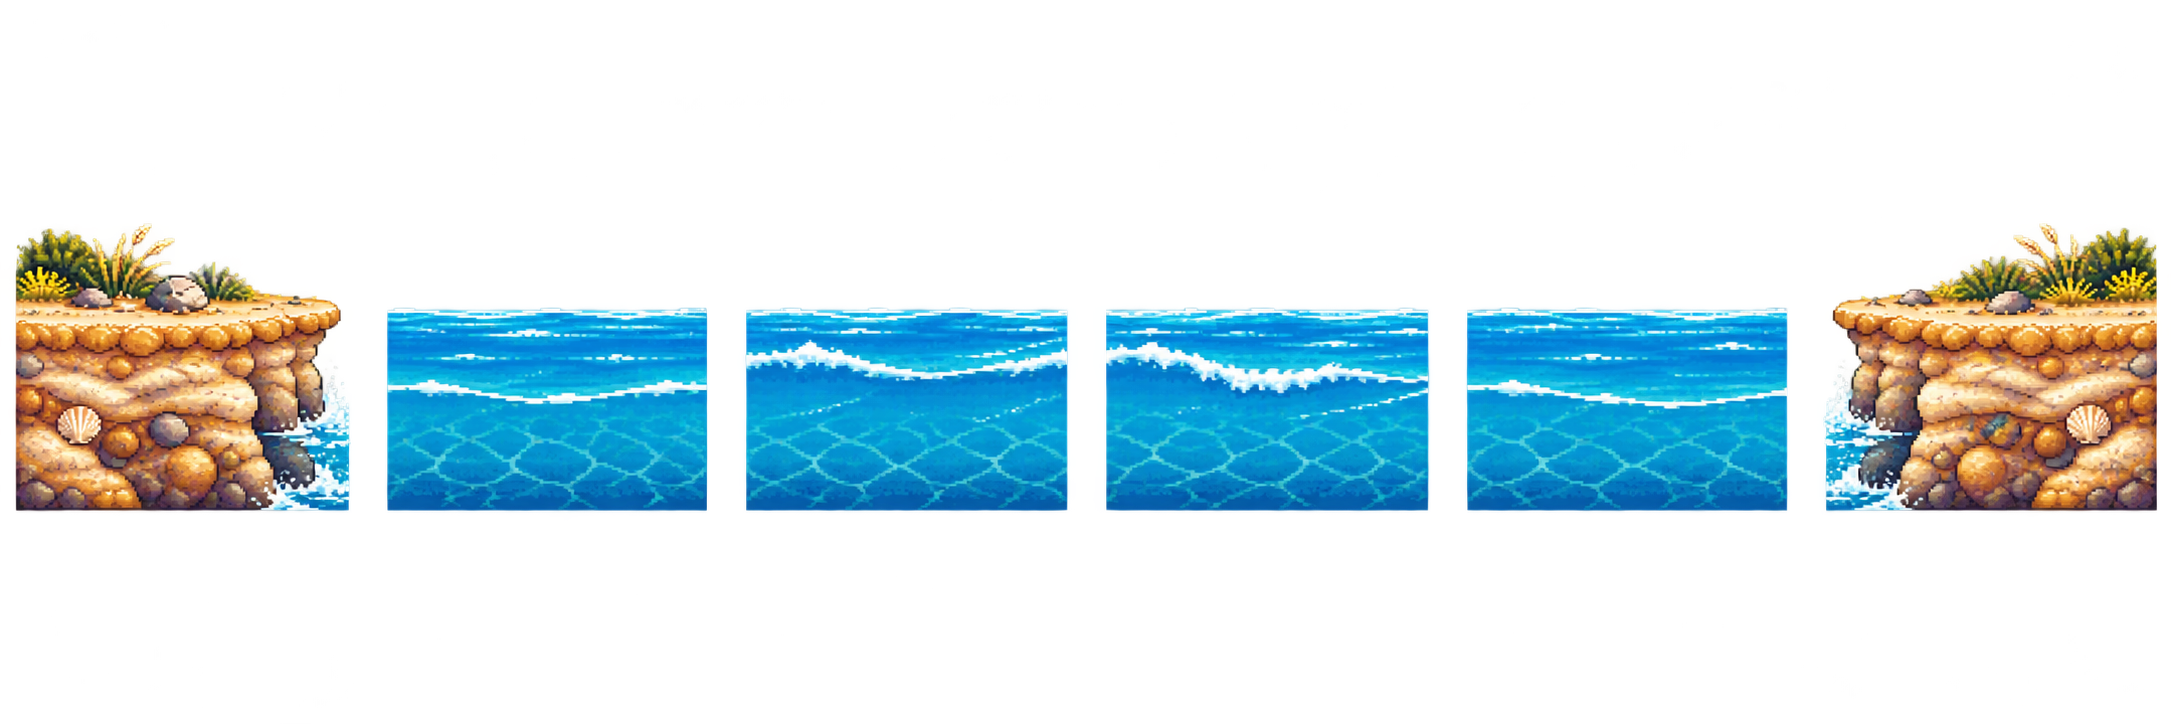
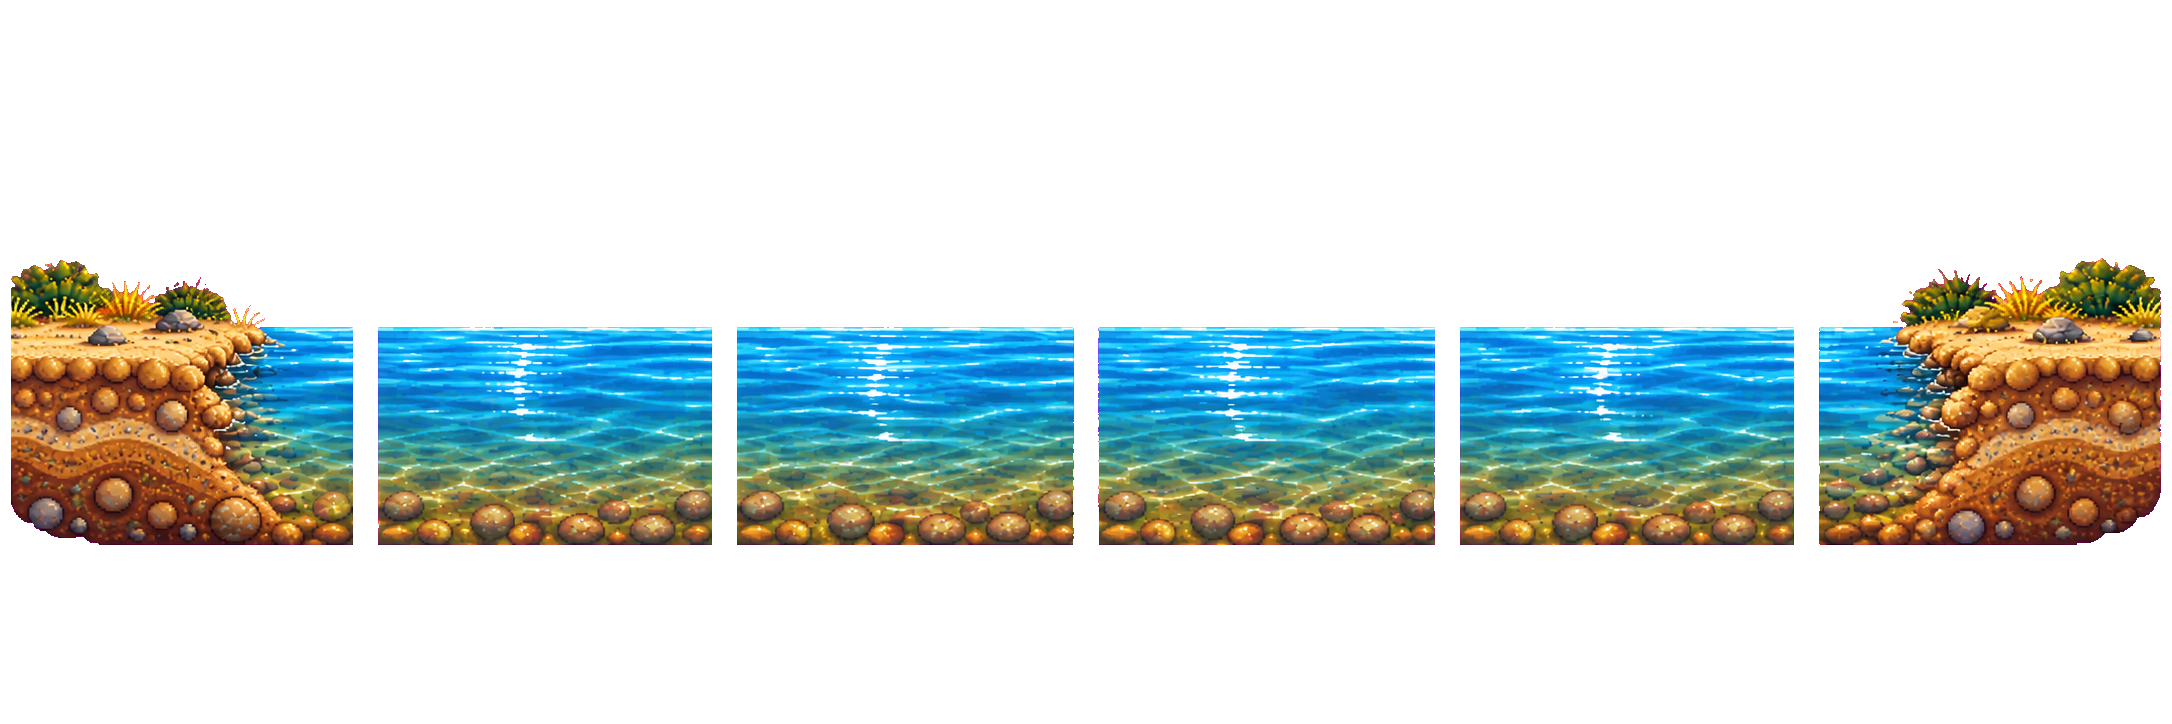
Mismo resumen en el mapa del viaje y en el perfil
"Figuritas" era un contador viejo que no se mostraba en ningún otro lado. Ahora las dos pantallas
muestran lo mismo, contado igual (src/systems/resumen.js): Puntos · Stickers · Coleccionables ·
Animales · Preguntas, cada uno con lo del país.

Changed region(s): [[0.0, 0.3039, 1.0, 0.7597]]

diff --git a/src/scenes/PerfilScene.js b/src/scenes/PerfilScene.js
@@ -5,10 +5,11 @@ import { Character } from "../entities/Character.js";
 import { Button } from "../ui/Button.js";
 import { ANIMALES, COLECCIONABLES } from "../data/animales.js";
 import { hasCharacter } from "../systems/characters.js";
-import { animalesVistos, getPerfil, hitoPreguntas } from "../systems/progress.js";
-import { formatoPuntos, puntajeTotal, puntosDe } from "../systems/puntaje.js";
-import { VIAJES, getViaje } from "../data/viajes/index.js";
-import { RAREZAS, STICKERS } from "../data/stickers.js";
+import { animalesVistos, getPerfil } from "../systems/progress.js";
+import { puntosDe } from "../systems/puntaje.js";
+import { animalesDe, coleccionablesDe, stickersDe, textoResumen } from "../systems/resumen.js";
+import { VIAJES } from "../data/viajes/index.js";
+import { RAREZAS } from "../data/stickers.js";
 
 const RAREZA = {
   común: { color: 0x9fb3c8, texto: "#9fb3c8" },
@@ -26,19 +27,6 @@ const PESTANAS = [
   { id: "coleccion", label: "Coleccionables" },
   { id: "animales", label: "Animales" },
 ];
-
-// Lo de cada país: stickers de su álbum, coleccionables de sus tramos y animales de sus tramos.
-const stickersDe = (paisId) => STICKERS.filter((s) => s.pais === paisId);
-const coleccionablesDe = (viaje) => {
-  const tramos = viaje.tramos.flatMap((t) => [t.especial, t.tesoro]).filter(Boolean);
-  const unicos = [...new Set(tramos)];
-  return [
-    COLECCIONABLES.comun,
-    ...unicos.filter((t) => !t.startsWith("tesoro-")),
-    ...unicos.filter((t) => t.startsWith("tesoro-")),
-  ];
-};
-const animalesDe = (viaje) => [...new Set(viaje.tramos.flatMap((t) => t.animales))];
 
 // Perfil de Vicente: álbum de stickers, coleccionables juntados y animales vistos (en pestañas y por país).
 export class PerfilScene extends Phaser.Scene {
@@ -60,29 +48,10 @@ export class PerfilScene extends Phaser.Scene {
     this.add
       .text(24, 26, "Perfil de Vicente", { fontFamily: FONT, fontSize: "20px", color: "#ffb83d" })
       .setOrigin(0, 0.5);
-    const stickers = Object.keys(perfil.stickers ?? {}).length;
-    // Hito de preguntas del país (por ahora Argentina): mejor resultado de cada ciudad.
-    const hito = hitoPreguntas("ar");
-    const hitoTotal = (getViaje("ar")?.ciudades.length ?? 0) * 5;
+    // El mismo resumen que en el mapa del viaje (por ahora un solo país: Argentina).
     this.add
-      .text(
-        24,
-        56,
-        `Stickers: ${stickers}/${STICKERS.length} · Animales: ${vistos.size} · Preguntas: ${hito.aciertos}/${hitoTotal}`,
-        { fontFamily: FONT, fontSize: "10px", color: COLORS.ink }
-      )
+      .text(24, 56, textoResumen("ar"), { fontFamily: FONT, fontSize: "9px", color: COLORS.ink })
       .setOrigin(0, 0.5);
-    // Puntaje general (como en Mario).
-    this.add
-      .text(GAME_WIDTH - 360, 24, "PUNTOS", { fontFamily: FONT, fontSize: "9px", color: "#ffd27a" })
-      .setOrigin(0.5);
-    this.add
-      .text(GAME_WIDTH - 360, 48, formatoPuntos(puntajeTotal()), {
-        fontFamily: FONT,
-        fontSize: "18px",
-        color: "#ffffff",
-      })
-      .setOrigin(0.5);
     new Button(this, GAME_WIDTH - 110, 38, "< Volver", () => this.scene.start(this.volver.scene, this.volver.data), {
       width: 180,
       variant: "secondary",

diff --git a/src/systems/resumen.js b/src/systems/resumen.js
@@ -1,0 +1,58 @@
+// Lo que Vicente juntó en cada país, contado igual en todas las pantallas (mapa del viaje y perfil):
+// stickers del álbum, coleccionables, animales y preguntas, más el puntaje general.
+import { ANIMALES, COLECCIONABLES } from "../data/animales.js";
+import { STICKERS } from "../data/stickers.js";
+import { getViaje } from "../data/viajes/index.js";
+import { animalesVistos, getPerfil, hitoPreguntas } from "./progress.js";
+import { formatoPuntos, puntajeTotal } from "./puntaje.js";
+
+export const PREGUNTAS_POR_CIUDAD = 5;
+
+// Stickers del álbum del país.
+export const stickersDe = (paisId) => STICKERS.filter((s) => s.pais === paisId);
+
+// Coleccionables del país: la estrella, los especiales y los tesoros de sus tramos.
+export function coleccionablesDe(viaje) {
+  const unicos = [...new Set(viaje.tramos.flatMap((t) => [t.especial, t.tesoro]).filter(Boolean))];
+  return [
+    COLECCIONABLES.comun,
+    ...unicos.filter((t) => !t.startsWith("tesoro-")),
+    ...unicos.filter((t) => t.startsWith("tesoro-")),
+  ];
+}
+
+// Animales que aparecen en los tramos del país (los que tienen dibujo).
+export const animalesDe = (viaje) =>
+  [...new Set(viaje.tramos.flatMap((t) => t.animales))].filter((id) => ANIMALES[id]?.sprite);
+
+export function resumenPais(paisId) {
+  const viaje = getViaje(paisId);
+  const perfil = getPerfil();
+  const vistos = new Set(animalesVistos());
+  const stickers = stickersDe(paisId);
+  const coleccionables = coleccionablesDe(viaje);
+  const animales = animalesDe(viaje);
+  return {
+    puntos: puntajeTotal(),
+    stickers: { tiene: stickers.filter((s) => perfil.stickers?.[s.id]).length, total: stickers.length },
+    coleccionables: {
+      tiene: coleccionables.filter((t) => (perfil.coleccion[t] ?? 0) > 0).length,
+      total: coleccionables.length,
+    },
+    animales: { tiene: animales.filter((id) => vistos.has(id)).length, total: animales.length },
+    preguntas: { tiene: hitoPreguntas(paisId).aciertos, total: viaje.ciudades.length * PREGUNTAS_POR_CIUDAD },
+  };
+}
+
+// "Puntos: 006800 · Stickers: 3/20 · Coleccionables: 5/22 · Animales: 9/41 · Preguntas: 8/50"
+export function textoResumen(paisId) {
+  const r = resumenPais(paisId);
+  const de = (x) => `${x.tiene}/${x.total}`;
+  return [
+    `Puntos: ${formatoPuntos(r.puntos)}`,
+    `Stickers: ${de(r.stickers)}`,
+    `Coleccionables: ${de(r.coleccionables)}`,
+    `Animales: ${de(r.animales)}`,
+    `Preguntas: ${de(r.preguntas)}`,
+  ].join(" · ");
+}

diff --git a/src/scenes/ViajeMapaScene.js b/src/scenes/ViajeMapaScene.js
@@ -5,8 +5,9 @@ import { Character } from "../entities/Character.js";
 import { Button } from "../ui/Button.js";
 import { getViaje } from "../data/viajes/index.js";
 import { getPais } from "../data/paises.js";
-import { actualizarViaje, getProgresoViaje, hitoPreguntas, reiniciarViaje } from "../systems/progress.js";
+import { actualizarViaje, getProgresoViaje, reiniciarViaje } from "../systems/progress.js";
 import { modoPrueba } from "../systems/dev.js";
+import { textoResumen } from "../systems/resumen.js";
 
 const REGION = "sudamerica";
 const PAIS_EN_PANTALLA = { x: 380, y: 400, alto: 600 }; // dónde y de qué alto se ve el país
@@ -153,16 +154,11 @@ export class ViajeMapaScene extends Phaser.Scene {
     );
     add(
       this.add
-        .text(
-          24,
-          56,
-          `Figuritas: ${this.progreso.figuritas} · Animales: ${this.progreso.animalesVistos.length} · Preguntas: ${hitoPreguntas(this.paisId).aciertos} de ${this.viaje.ciudades.length * 5}`,
-          {
-            fontFamily: FONT,
-            fontSize: "10px",
-            color: COLORS.ink,
-          }
-        )
+        .text(24, 56, textoResumen(this.paisId), {
+          fontFamily: FONT,
+          fontSize: "9px",
+          color: COLORS.ink,
+        })
         .setOrigin(0, 0.5)
     );
     add(
